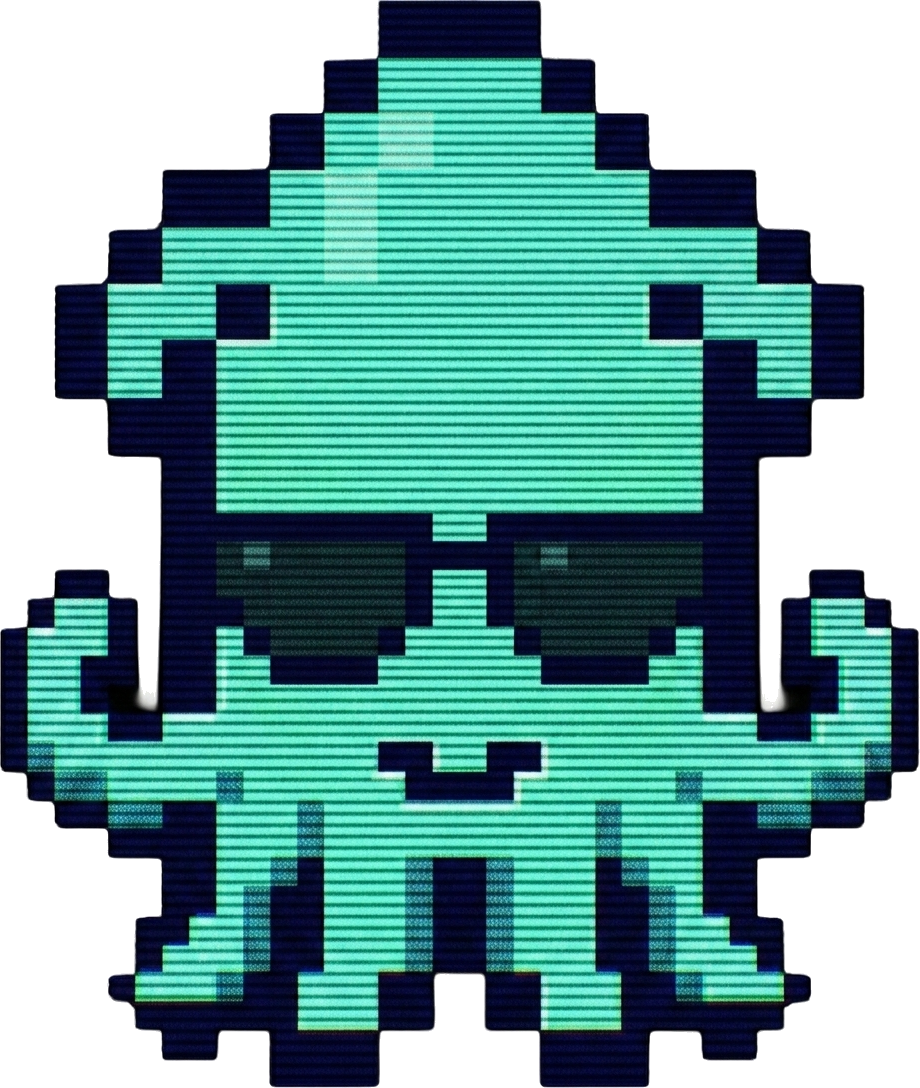
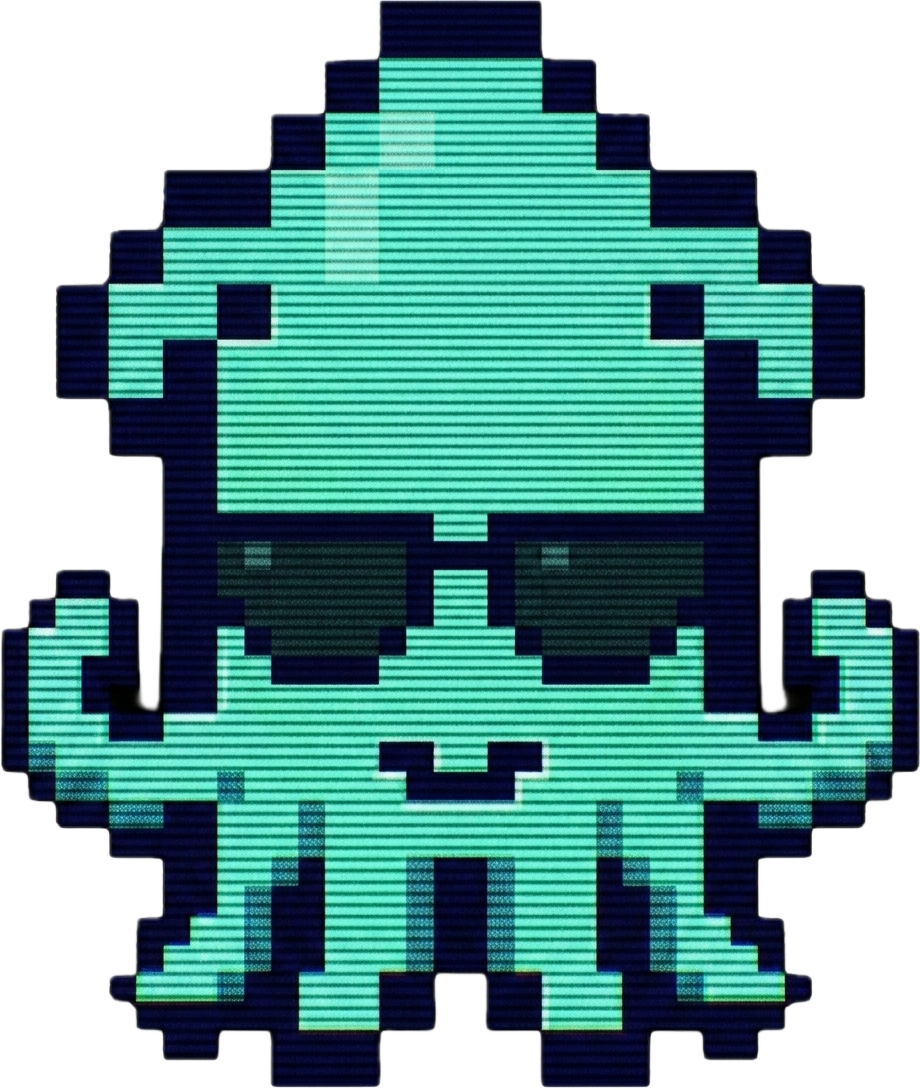
Clean up contact form, add SEO meta tags, fix branding
- Replace seth@mint with lab@mint in terminal prompts (contact + 404)
- Sidebar: "About the Lab" → "About MINT Lab"
- Page title: "MINT Lab — Machine Intelligence and Normative Theory"
- Add og:title, og:description, twitter:card meta tags to all pages
- Use clean transparent sunglasses Minty (IMG_2801)

diff --git a/src/data/navigation.ts b/src/data/navigation.ts
@@ -15,7 +15,7 @@ export interface PageNav {
 export const siteNav: PageNav[] = [
   {
     path: "/",
-    label: "About the Lab",
+    label: "About MINT Lab",
     icon: "◆",
     sections: [
       { href: "#about", label: "About" },
